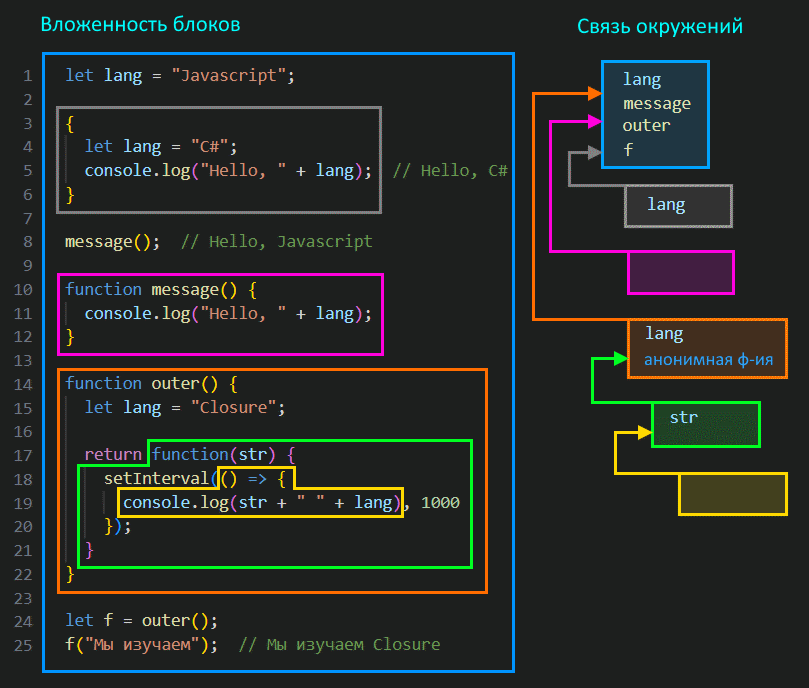
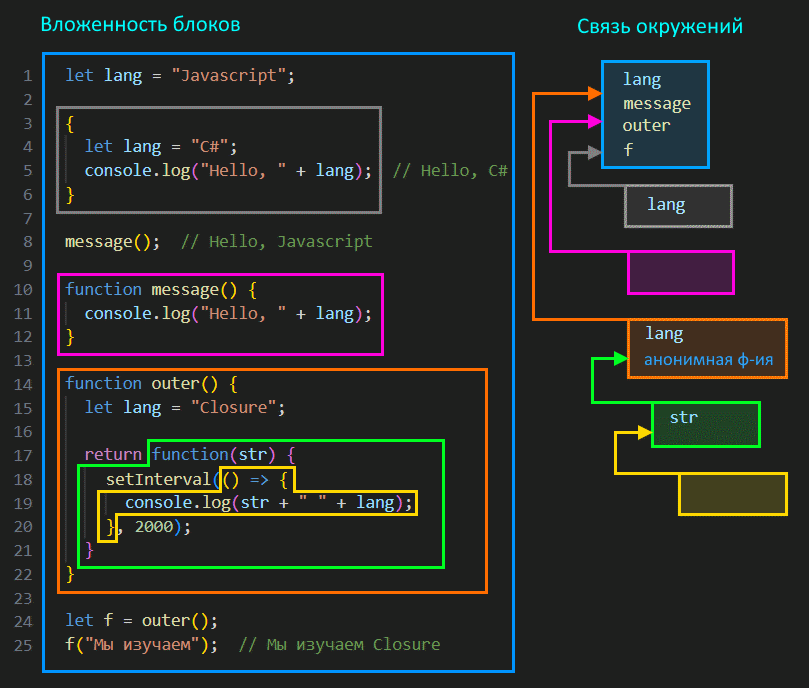
Устранил неточность в рисунке

Changed region(s): [[0.0927, 0.641, 0.5871, 0.8241]]

diff --git a/frontend/javascript/02 - Функции/05 - Окружение, замыкания.md b/frontend/javascript/02 - Функции/05 - Окружение, замыкания.md
@@ -57,9 +57,40 @@ console.log(username);  // Перезаписалось и стало Sam
 
 Еще раз стоит вспомнить, что функции - это объекты, поэтому они хранятся и отыскиваются в окружениях как и прочие значения. Это к вопросу о том, что внутри окружения функции outer хранится не только переменная lang, но и функция, которую мы возвращаем.
 
-Важный момент - внешнее окружение функции определяется по моменту ее создания, а не моменту ее выполнения. Например, обведенная зеленым функция создается внутри функции outer, а выполняется внутри скрипта. Для нее внешним окружением является outer, а не скрипт. Особенно этот момент будет важен для понимания вычисления this для лямбд.
+Важный момент - внешнее окружение функции определяется по моменту ее создания, а не моменту ее выполнения. Например, обведенная зеленым функция создается внутри функции outer, а выполняется внутри скрипта. Для нее внешним окружением является окружение outer, а не окружение скрипта.
 
 > Я намеренно не писал здесь, что окружение - это объект или что-то другое, потому что достоверно выяснять как оно реализовано в языке смысла нет. Имхо достаточно логического понимания как оно работает и что в нем находится. При попытке раскопать технические детали велика вероятность раскопать мифы и заблуждения. Также я не писал, в какой момент окружение создается и как именно блоки хранят ссылки на свое и внешнее окружение. Имхо, достаточно знать, что во время выполнения блока окружение существует и что есть ссылка на внешнее.
+
+Код с картинки:
+
+```javascript
+
+let lang = "Javascript";
+
+{
+  let lang = "C#";
+  console.log("Hello, " + lang);  // Hello, C#
+}
+
+message();  // Hello, Javascript
+
+function message() {
+  console.log("Hello, " + lang);
+}
+
+function outer() {
+  let lang = "Closure";
+
+  return function(str) {
+    setInterval(() => {
+      console.log(str + " " + lang);
+    }, 2000);
+  };
+}
+
+let f = outer();
+f("Мы изучаем");  // Мы изучаем Closure
+```
 
 # Замыкание
 
@@ -130,7 +161,7 @@ function foobar() {
   let lang = "Javascript";
 
   return function(str) {  // <-- Условно назовем эту функцию "R"
-    console.log("Мы изучаем " + lang);
+    console.log(str + " " + lang);
   }
 }
 
@@ -138,4 +169,4 @@ let f = foobar();
 f("Мы изучаем");  // Мы изучаем Javascript
 ```
 
-Здесь есть замыкание: возвращаемая из foobar функция (назовем ее R) использует переменную lang из окружения foobar. Стало быть, когда мы будет вызывать R, ей для получения значения lang потребуется окружение foobar, а значит его нельзя удалять из памяти. Поэтому оно останется там до тех пор, пока существует ссылка на R. В данном примере, если бы мы в конец добавили например `f = null;`, то потеряли бы ссылку на R, а стало быть и ссылку на окружение foobar. Вот в этом случае сборщик мусора удалил бы его.
+Здесь есть замыкание: возвращаемая из foobar функция (назовем ее R) использует переменную lang из окружения foobar. Стало быть, когда мы будем вызывать R, ей для получения значения lang потребуется окружение foobar, а значит его нельзя удалять из памяти. Поэтому оно останется там до тех пор, пока существует ссылка на R. В данном примере, если бы мы в конец добавили например `f = null;`, то потеряли бы ссылку на R, а стало быть и ссылку на окружение foobar. Вот в этом случае сборщик мусора удалил бы его.
